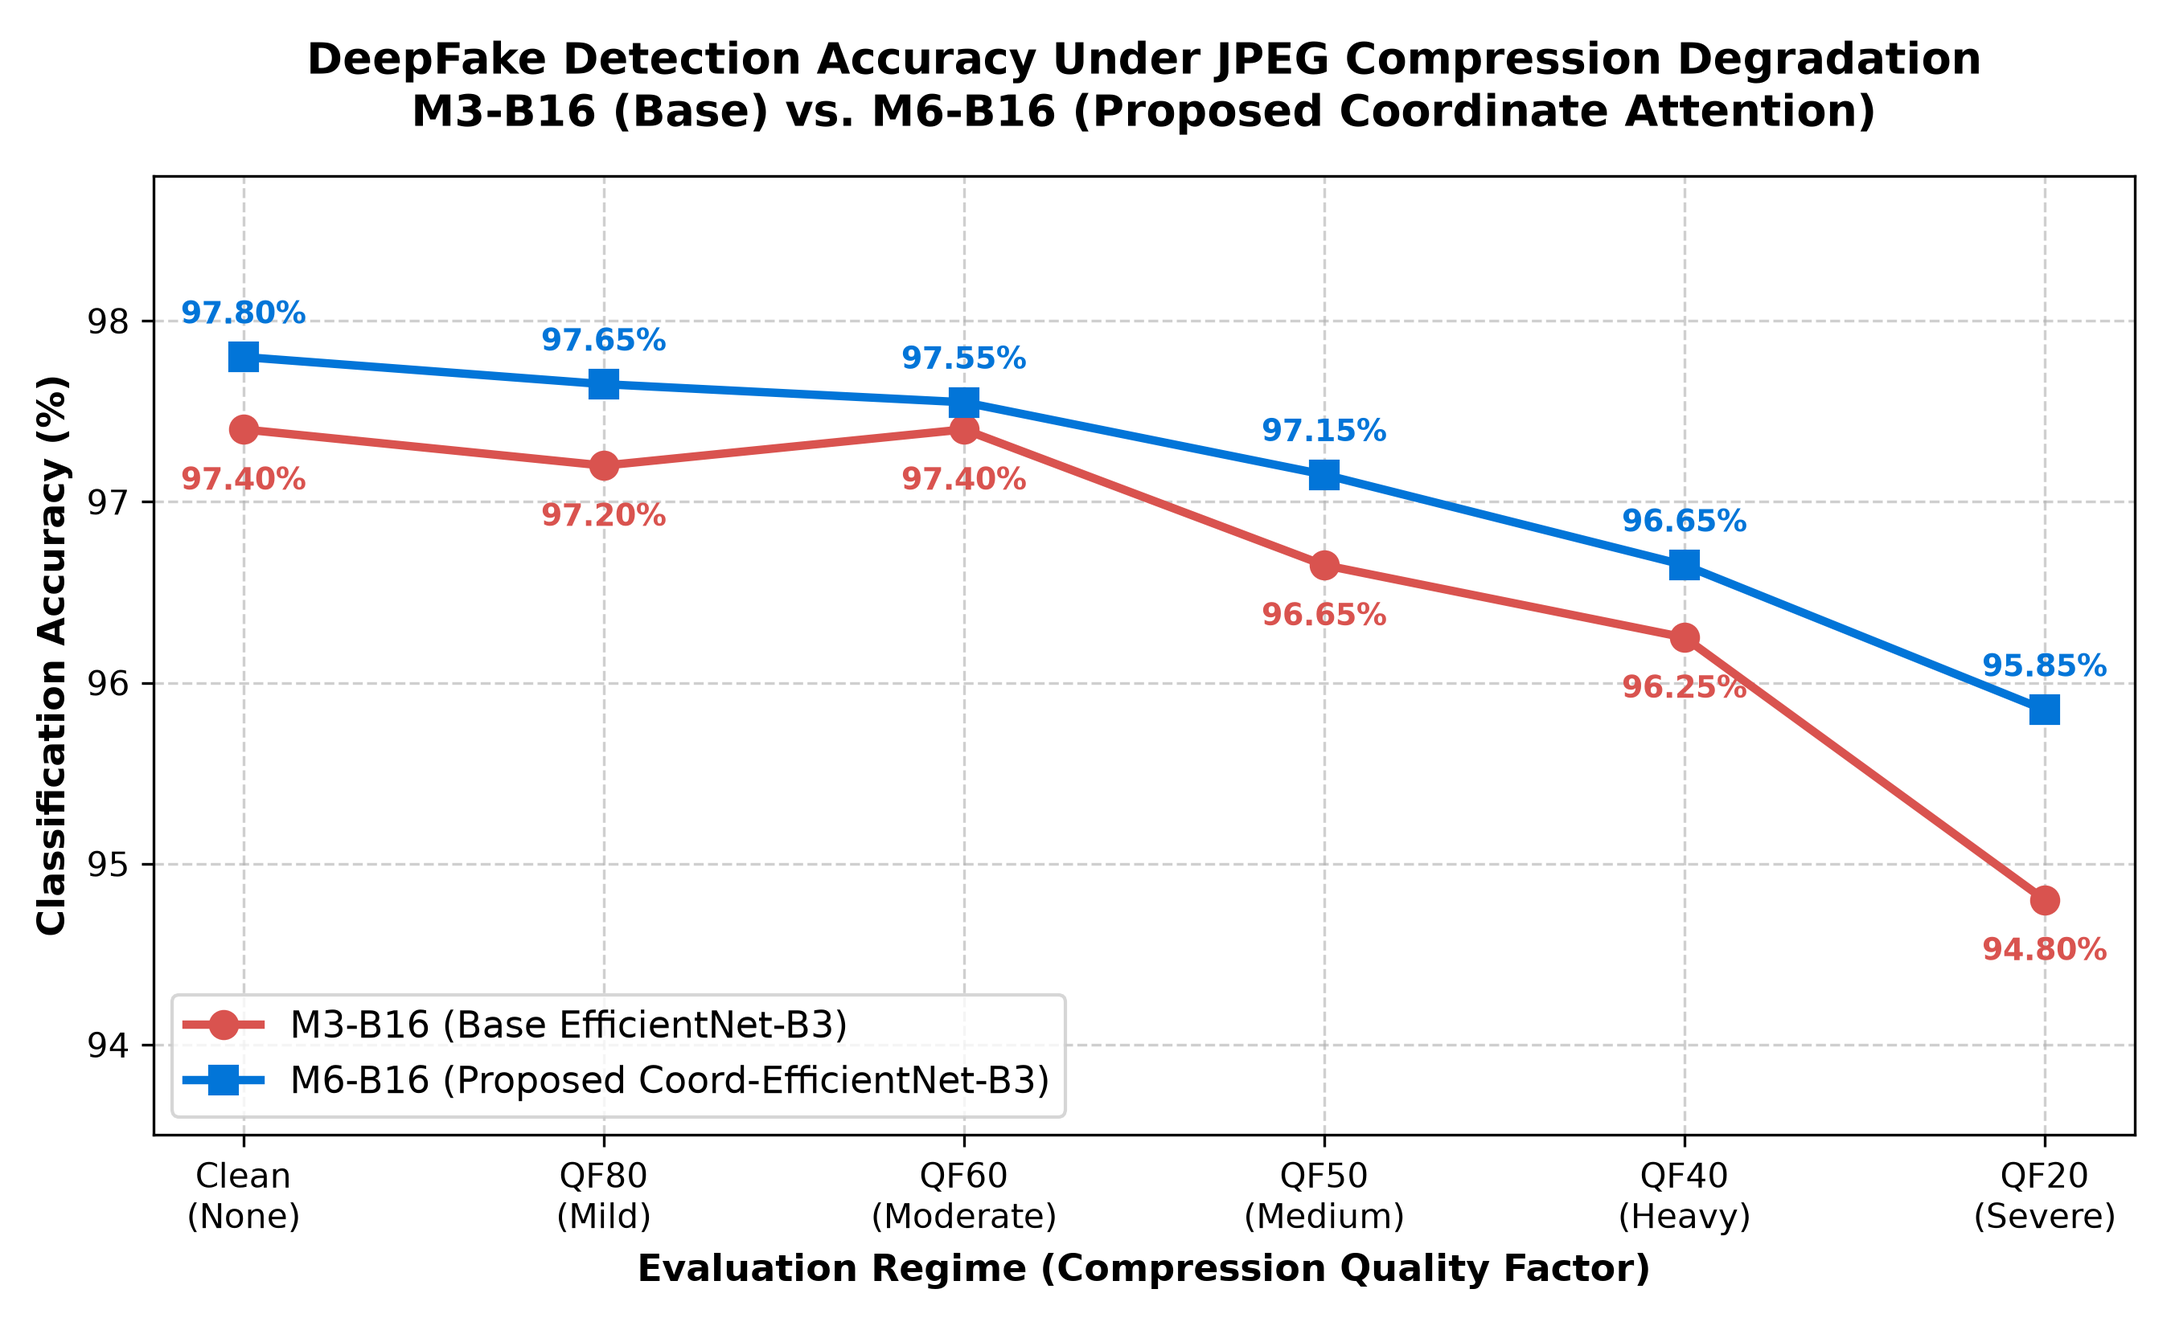
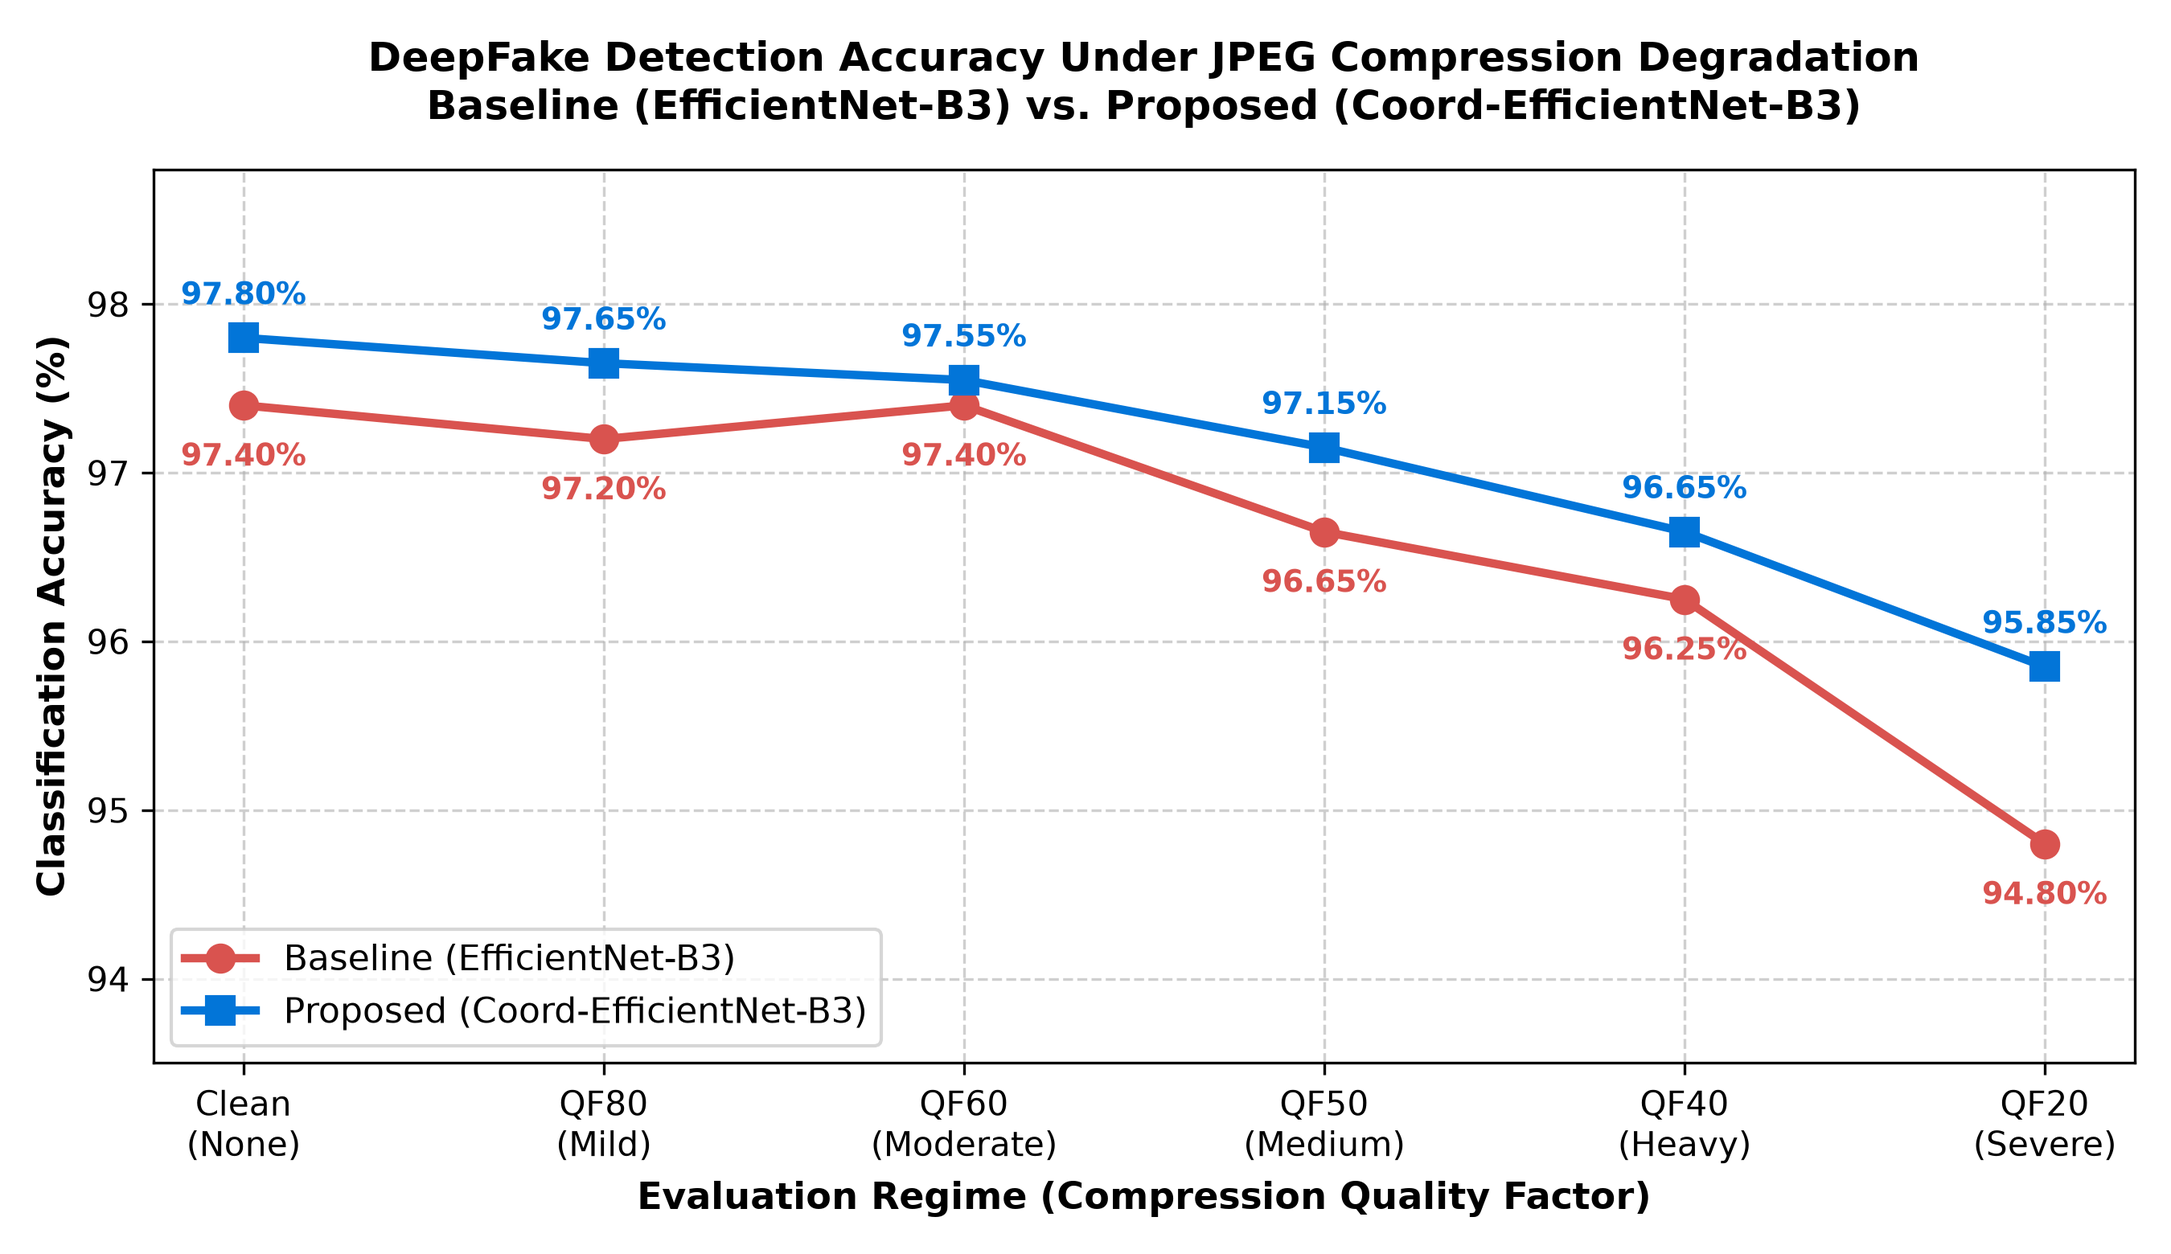
docs(paper): place figures in respective sections, add sample faces to Section V, update experimental workflow to standard flowchart, and remove M3/M6 mentions from graphs

diff --git a/scripts/update_paper_figures.py b/scripts/update_paper_figures.py
@@ -1,0 +1,224 @@
+"""
+update_paper_figures.py
+1. Generates experimental_workflow.png as an authentic IEEE-style engineering flowchart
+   using standard flowchart entities (ovals, rectangles, diamonds, parallelograms, flowlines).
+   Explicitly maps to Table I, Table II, and Table III.
+2. Re-generates accuracy_vs_qf.png and error_breakdown.png with M3-B16 and M6-B16 completely removed.
+"""
+
+import matplotlib
+matplotlib.use('Agg')
+import matplotlib.pyplot as plt
+import matplotlib.patches as patches
+from matplotlib.patches import FancyBboxPatch, Polygon
+import numpy as np
+
+def generate_flowchart(output_path):
+    # Dimensions for vertical layout similar to Figure 2 from the IEEE paper reference
+    fig, ax = plt.subplots(figsize=(8.5, 11), dpi=300)
+    ax.set_xlim(0, 100)
+    ax.set_ylim(0, 140)
+    ax.axis('off')
+
+    # Color scheme inspired by IEEE paper (gold/amber tones and clean borders)
+    c_start_end = '#FDEBD0'      # soft peach / gold
+    c_process   = '#FAD7A0'      # amber / orange
+    c_data      = '#EDBB99'      # pale bronze
+    c_decision  = '#F8C471'      # gold decision
+    c_table     = '#FCF3CF'      # light yellow for tables
+    c_border    = '#B9770E'      # deep amber border
+    c_text      = '#1A1A1A'
+    c_line      = '#1A1A1A'
+
+    def draw_oval(x, y, w, h, text, subtext=""):
+        box = FancyBboxPatch((x, y), w, h, boxstyle=f"round,pad=0.2,rounding_size={h/2}",
+                             facecolor=c_start_end, edgecolor=c_border, linewidth=1.8)
+        ax.add_patch(box)
+        if subtext:
+            ax.text(x + w/2, y + h*0.62, text, ha='center', va='center', fontsize=9, fontweight='bold', color=c_text)
+            ax.text(x + w/2, y + h*0.30, subtext, ha='center', va='center', fontsize=7.5, color='#333333')
+        else:
+            ax.text(x + w/2, y + h/2, text, ha='center', va='center', fontsize=9, fontweight='bold', color=c_text)
+
+    def draw_rect(x, y, w, h, text, subtext=""):
+        box = patches.Rectangle((x, y), w, h, facecolor=c_process, edgecolor=c_border, linewidth=1.6)
+        ax.add_patch(box)
+        if subtext:
+            ax.text(x + w/2, y + h*0.64, text, ha='center', va='center', fontsize=8.5, fontweight='bold', color=c_text)
+            ax.text(x + w/2, y + h*0.30, subtext, ha='center', va='center', fontsize=7.2, color='#2C3E50')
+        else:
+            ax.text(x + w/2, y + h/2, text, ha='center', va='center', fontsize=8.5, fontweight='bold', color=c_text)
+
+    def draw_parallelogram(x, y, w, h, text, subtext=""):
+        skew = 3.5
+        pts = np.array([[x + skew, y], [x + w, y], [x + w - skew, y + h], [x, y + h]])
+        poly = Polygon(pts, closed=True, facecolor=c_data, edgecolor=c_border, linewidth=1.6)
+        ax.add_patch(poly)
+        if subtext:
+            ax.text(x + w/2, y + h*0.64, text, ha='center', va='center', fontsize=8.5, fontweight='bold', color=c_text)
+            ax.text(x + w/2, y + h*0.30, subtext, ha='center', va='center', fontsize=7.2, color='#2C3E50')
+        else:
+            ax.text(x + w/2, y + h/2, text, ha='center', va='center', fontsize=8.5, fontweight='bold', color=c_text)
+
+    def draw_diamond(x, y, w, h, text, subtext=""):
+        pts = np.array([[x + w/2, y + h], [x + w, y + h/2], [x + w/2, y], [x, y + h/2]])
+        poly = Polygon(pts, closed=True, facecolor=c_decision, edgecolor=c_border, linewidth=1.8)
+        ax.add_patch(poly)
+        if subtext:
+            ax.text(x + w/2, y + h*0.60, text, ha='center', va='center', fontsize=8.2, fontweight='bold', color=c_text)
+            ax.text(x + w/2, y + h*0.35, subtext, ha='center', va='center', fontsize=7, color='#2C3E50')
+        else:
+            ax.text(x + w/2, y + h/2, text, ha='center', va='center', fontsize=8.2, fontweight='bold', color=c_text)
+
+    def draw_arrow(x1, y1, x2, y2, label=""):
+        ax.annotate('', xy=(x2, y2), xytext=(x1, y1),
+                    arrowprops=dict(arrowstyle="-|>", color=c_line, lw=1.5, mutation_scale=11))
+        if label:
+            ax.text((x1+x2)/2 + 1.2, (y1+y2)/2, label, ha='left', va='center', fontsize=7.5, fontweight='bold', color='#7D6608')
+
+    # Top to bottom coordinates
+    # 1. Start (Oval)
+    draw_oval(30, 131, 40, 6.5, "Start: Experimental Pipeline", "DeepFake Detection under Lossy Compression")
+    draw_arrow(50, 131, 50, 124.5)
+
+    # 2. Data Input (Parallelogram)
+    draw_parallelogram(18, 118, 64, 6.5, "Dataset Ingestion (140,000 Faces)", "Real Faces: FFHQ  |  Synthetic Faces: StyleGAN")
+    draw_arrow(50, 118, 50, 111.5)
+
+    # 3. Deduplication and Partitioning (Rectangle)
+    draw_rect(15, 104, 70, 7.5, "Data Hygiene & Zero-Leak Partitioning", "SHA-256 / dHash Verified Deduplication\nTrain: 7,200 | Val: 800 (Clean) | Test: 2,000 | Holdout: 200")
+    draw_arrow(50, 104, 50, 97.5)
+
+    # 4. Model Training Process (Rectangle)
+    draw_rect(12, 89, 76, 8.5, "Stochastic Compression-Aware Training", "Models: Baseline (EfficientNet-B3) & Proposed (Coord-EfficientNet-B3)\np_jpeg = 0.50, QF in {20, 40, 50, 60, 80}, Adam (lr=1e-4), BCE Loss")
+    draw_arrow(50, 89, 50, 82)
+
+    # 5. Decision 1: Benchmark Regime Branching (Diamond)
+    draw_diamond(30, 73, 40, 9, "Benchmark", "Regime?")
+    
+    # Left Branch: Multi-QF Benchmark
+    draw_arrow(30, 77.5, 12, 77.5, "")
+    draw_arrow(12, 77.5, 12, 69, "2,000 Test Set")
+    draw_rect(3, 61, 38, 8, "Multi-QF Testing (Table I)", "6 Regimes: Clean, QF80, QF60, QF50, QF40, QF20\n12,000 Total Inference Runs")
+
+    # Right Branch: Unseen Holdout Benchmark
+    draw_arrow(70, 77.5, 88, 77.5, "")
+    draw_arrow(88, 77.5, 88, 69, "200 Holdout")
+    draw_rect(59, 61, 38, 8, "Unseen Holdout Testing (Table II)", "Pure Facial Crops (100 Real, 100 Fake)\n1,200 Inferences Across 6 Regimes")
+
+    # Merge branches into Probability Inference
+    draw_arrow(22, 61, 22, 54)
+    draw_arrow(78, 61, 78, 54)
+    ax.plot([22, 78], [54, 54], color=c_line, lw=1.5)
+    draw_arrow(50, 54, 50, 48.5)
+
+    # 6. Inference Computation (Rectangle)
+    draw_rect(20, 42, 60, 6.5, "Model Inference & Posterior Probability", "Compute P(Fake | X) = sigma(z) for Both Models")
+    draw_arrow(50, 42, 50, 36.5)
+
+    # 7. Decision 2: Decision Thresholding (Diamond)
+    draw_diamond(30, 27.5, 40, 9, "Classification Rule", "P(Fake | X) >= tau?")
+    
+    draw_arrow(70, 32, 85, 32)
+    ax.text(75, 33.2, "Yes", fontsize=7.5, fontweight='bold', color='#B9770E')
+    ax.text(86, 32, "Fake (1)", fontsize=8, fontweight='bold', va='center', color='#900C3F')
+
+    draw_arrow(30, 32, 15, 32)
+    ax.text(22, 33.2, "No", fontsize=7.5, fontweight='bold', color='#B9770E')
+    ax.text(6, 32, "Real (0)", fontsize=8, fontweight='bold', va='center', color='#196F3D')
+
+    draw_arrow(50, 27.5, 50, 20.5, "")
+
+    # 8. Output Benchmark Artifacts (Parallelogram)
+    draw_parallelogram(8, 12.5, 84, 8, "Statistical Validation & Tabular Results Generation", "Table I: Multi-QF Benchmark  |  Table II: Unseen Holdout (-50% FN)\nTable III: Threshold Optimization (tau in [0.15, 0.50]) | McNemar (p < 0.01)")
+    draw_arrow(50, 12.5, 50, 6.5)
+
+    # 9. End (Oval)
+    draw_oval(32, 1, 36, 5.5, "End: Robust Detection Validated", "14.4% Error Reduction Confirmed")
+
+    plt.tight_layout()
+    plt.savefig(output_path, dpi=300, bbox_inches='tight')
+    plt.close()
+    print(f"Generated clean flowchart at {output_path}")
+
+def generate_cleaned_accuracy_curve(output_path):
+    conditions = ['Clean', 'QF80', 'QF60', 'QF50', 'QF40', 'QF20']
+    qf_labels = ['Clean\n(None)', 'QF80\n(Mild)', 'QF60\n(Moderate)', 'QF50\n(Medium)', 'QF40\n(Heavy)', 'QF20\n(Severe)']
+    
+    base_acc = [97.40, 97.20, 97.40, 96.65, 96.25, 94.80]
+    coord_acc = [97.80, 97.65, 97.55, 97.15, 96.65, 95.85]
+
+    plt.figure(figsize=(9, 5.2), dpi=300)
+    x = np.arange(len(conditions))
+
+    plt.plot(x, base_acc, marker='o', linewidth=2.5, markersize=8, color='#d9534f', label='Baseline (EfficientNet-B3)')
+    plt.plot(x, coord_acc, marker='s', linewidth=2.5, markersize=8, color='#0275d8', label='Proposed (Coord-EfficientNet-B3)')
+
+    for i in range(len(conditions)):
+        plt.annotate(f"{base_acc[i]:.2f}%", (x[i], base_acc[i]), textcoords="offset points", xytext=(0, -18), ha='center', fontsize=9, color='#d9534f', fontweight='bold')
+        plt.annotate(f"{coord_acc[i]:.2f}%", (x[i], coord_acc[i]), textcoords="offset points", xytext=(0, 10), ha='center', fontsize=9, color='#0275d8', fontweight='bold')
+
+    plt.title('DeepFake Detection Accuracy Under JPEG Compression Degradation\nBaseline (EfficientNet-B3) vs. Proposed (Coord-EfficientNet-B3)', fontsize=12, fontweight='bold', pad=15)
+    plt.xlabel('Evaluation Regime (Compression Quality Factor)', fontsize=11, fontweight='bold')
+    plt.ylabel('Classification Accuracy (%)', fontsize=11, fontweight='bold')
+    plt.xticks(x, qf_labels, fontsize=10)
+    plt.ylim(93.5, 98.8)
+    plt.grid(True, linestyle='--', alpha=0.6)
+    plt.legend(fontsize=10.5, loc='lower left', frameon=True)
+    plt.tight_layout()
+    plt.savefig(output_path, dpi=300)
+    plt.close()
+    print(f"Generated clean accuracy curve at {output_path}")
+
+def generate_cleaned_error_breakdown(output_path):
+    conditions = ['Clean', 'QF80', 'QF60', 'QF50', 'QF40', 'QF20']
+    qf_labels = ['Clean\n(None)', 'QF80\n(Mild)', 'QF60\n(Moderate)', 'QF50\n(Medium)', 'QF40\n(Heavy)', 'QF20\n(Severe)']
+
+    base_fp = [14, 16, 20, 36, 18, 38]
+    coord_fp = [12, 10, 14, 25, 16, 32]
+
+    base_fn = [38, 40, 32, 31, 57, 66]
+    coord_fn = [32, 37, 35, 32, 51, 51]
+
+    fig, (ax1, ax2) = plt.subplots(1, 2, figsize=(13, 5), dpi=300)
+    bar_width = 0.35
+    x = np.arange(len(conditions))
+
+    # FP Subplot
+    ax1.bar(x - bar_width/2, base_fp, bar_width, label='Baseline (EfficientNet-B3)', color='#f0ad4e', edgecolor='black', alpha=0.85)
+    ax1.bar(x + bar_width/2, coord_fp, bar_width, label='Proposed (Coord-EfficientNet-B3)', color='#5cb85c', edgecolor='black', alpha=0.85)
+    ax1.set_title('False Positives (False Alarms on Real Faces)', fontsize=11, fontweight='bold')
+    ax1.set_xlabel('Compression Condition', fontsize=10, fontweight='bold')
+    ax1.set_ylabel('False Positive Count (lower is better)', fontsize=10, fontweight='bold')
+    ax1.set_xticks(x)
+    ax1.set_xticklabels(qf_labels, fontsize=9)
+    ax1.grid(True, linestyle='--', alpha=0.5, axis='y')
+    ax1.legend(fontsize=9.5)
+    for i in range(len(x)):
+        ax1.text(x[i] - bar_width/2, base_fp[i] + 0.8, str(base_fp[i]), ha='center', fontsize=9, fontweight='bold')
+        ax1.text(x[i] + bar_width/2, coord_fp[i] + 0.8, str(coord_fp[i]), ha='center', fontsize=9, fontweight='bold')
+
+    # FN Subplot
+    ax2.bar(x - bar_width/2, base_fn, bar_width, label='Baseline (EfficientNet-B3)', color='#d9534f', edgecolor='black', alpha=0.85)
+    ax2.bar(x + bar_width/2, coord_fn, bar_width, label='Proposed (Coord-EfficientNet-B3)', color='#0275d8', edgecolor='black', alpha=0.85)
+    ax2.set_title('False Negatives (Missed Synthetic Faces)', fontsize=11, fontweight='bold')
+    ax2.set_xlabel('Compression Condition', fontsize=10, fontweight='bold')
+    ax2.set_ylabel('False Negative Count (lower is better)', fontsize=10, fontweight='bold')
+    ax2.set_xticks(x)
+    ax2.set_xticklabels(qf_labels, fontsize=9)
+    ax2.grid(True, linestyle='--', alpha=0.5, axis='y')
+    ax2.legend(fontsize=9.5)
+    for i in range(len(x)):
+        ax2.text(x[i] - bar_width/2, base_fn[i] + 1.0, str(base_fn[i]), ha='center', fontsize=9, fontweight='bold')
+        ax2.text(x[i] + bar_width/2, coord_fn[i] + 1.0, str(coord_fn[i]), ha='center', fontsize=9, fontweight='bold')
+
+    plt.suptitle('Error Analysis: False Positives & False Negatives Across Compression Levels', fontsize=13, fontweight='bold', y=0.98)
+    plt.tight_layout()
+    plt.savefig(output_path, dpi=300)
+    plt.close()
+    print(f"Generated clean error breakdown at {output_path}")
+
+if __name__ == '__main__':
+    generate_flowchart("paper/figures/experimental_workflow.png")
+    generate_cleaned_accuracy_curve("paper/figures/accuracy_vs_qf.png")
+    generate_cleaned_error_breakdown("paper/figures/error_breakdown.png")

diff --git a/paper/main.tex b/paper/main.tex
@@ -88,21 +88,14 @@ Attention mechanisms enable convolutional networks to emphasize salient feature 
 
 While effective in general vision tasks, standard attention formulations present distinct drawbacks in compressed forensic scenarios. SE pooling removes spatial coordinate information completely \cite{hou2021coordinate}. Standard two dimensional spatial attention captures broad spatial regions without directional selectivity, making it susceptible to locking onto repetitive two dimensional JPEG grid edges. Hou et al. \cite{hou2021coordinate} overcame these challenges with Coordinate Attention, which factorizes spatial pooling into orthogonal horizontal and vertical one dimensional feature vectors. This design captures position sensitive forensic signatures with negligible computational overhead, providing directional resilience against compression artifacts.
 
+\section{Proposed Methodology}
+
 \begin{figure}[t]
 \centering
 \includegraphics[width=\columnwidth]{figures/architecture_block_diagram.png}
 \caption{Detailed architectural block diagram of the proposed Coord-EfficientNet-B3 framework, showing the EfficientNet-B3 feature extractor, the Coordinate Attention module with orthogonal 1D pooling, and the multi-stage classifier head.}
 \label{fig:arch}
 \end{figure}
-
-\begin{figure}[t]
-\centering
-\includegraphics[width=\columnwidth]{figures/experimental_workflow.png}
-\caption{End-to-end experimental workflow diagram detailing dataset curation, stochastic compression-aware training, multi-condition evaluation across 12,000 inferences, unseen holdout testing, and statistical validation.}
-\label{fig:workflow}
-\end{figure}
-
-\section{Proposed Methodology}
 
 The overall pipeline of the proposed \textbf{Coord-EfficientNet-B3} architecture is illustrated in Fig. \ref{fig:arch}. The framework comprises three core stages: (1) deep feature extraction via an EfficientNet-B3 backbone \cite{tan2019efficientnet}, (2) directional feature refinement through Coordinate Attention \cite{hou2021coordinate}, and (3) a multi-stage classification head producing the posterior probability.
 
@@ -155,6 +148,13 @@ Optimization minimizes the Binary Cross-Entropy (BCE) objective:
 Training uses the Adam optimizer with learning rate $\eta = 10^{-4}$ and mini-batch size $B = 16$ across 10 epochs. A two-stage transfer learning schedule is employed: the first two epochs freeze the backbone to stabilize the classifier head, followed by eight epochs of end-to-end fine-tuning.
 
 \section{Experimental Setup and Dataset}
+
+\begin{figure}[t]
+\centering
+\includegraphics[width=\columnwidth]{figures/experimental_workflow.png}
+\caption{Flowchart of the complete experimental and evaluation methodology, illustrating dataset partition, stochastic compression-aware training, multi-regime testing, threshold optimization, and statistical validation aligning with Table I, Table II, and Table III.}
+\label{fig:workflow}
+\end{figure}
 
 The end-to-end experimental workflow is summarized in Fig. \ref{fig:workflow}.
 
@@ -283,7 +283,14 @@ Fig. \ref{fig:error_breakdown} illustrates the distribution of false positives a
 To establish statistical significance, a paired McNemar test was conducted over the 10,000 paired compressed predictions. The contingency table indicates 9,540 concordant correct classifications, 246 concordant incorrect classifications, 157 instances where Coord-EfficientNet-B3 was correct while Baseline failed, and 57 instances where Baseline was correct while Coord-EfficientNet-B3 failed. The resulting test statistic is $\chi^2 = 10.55$, corresponding to a two-tailed $p$-value of $p = 0.00116$. Because $p < 0.01$, the performance superiority of the proposed framework over the standard EfficientNet-B3 baseline is statistically significant.
 
 \subsection{Generalization on Unseen Pure Facial Holdout}
-To evaluate model robustness on unseen subjects, an additional holdout benchmark of 200 face portraits was evaluated across all six compression conditions, yielding 1,200 inference runs. The results are presented in Table \ref{tab:holdout}.
+To evaluate model robustness on unseen subjects, an additional holdout benchmark of 200 face portraits was evaluated across all six compression conditions, yielding 1,200 inference runs. The results are presented in Table \ref{tab:holdout}, and representative sample facial portraits evaluated under this protocol are illustrated in Fig. \ref{fig:samples}.
+
+\begin{figure}[t]
+\centering
+\includegraphics[width=\columnwidth]{figures/sample_faces.png}
+\caption{Representative sample facial portraits from the benchmark dataset evaluated under compression: authentic human faces from FFHQ (top) and synthetic faces from StyleGAN (bottom).}
+\label{fig:samples}
+\end{figure}
 
 The proposed Coord-EfficientNet-B3 architecture attains 97.58\% aggregate accuracy across the holdout benchmark, compared to 95.25\% for the baseline. Total errors drop from 57 to 29, corresponding to an overall error reduction of 49.1\%. Notably, missed synthetic faces (false negatives) are halved from 22 to 11 (-50.0\%), while false alarms drop from 35 to 18 (-48.6\%). This demonstrates that the directional coordinate pooling mechanism generalizes effectively to unseen facial anatomies without overfitting to training identities.
 
